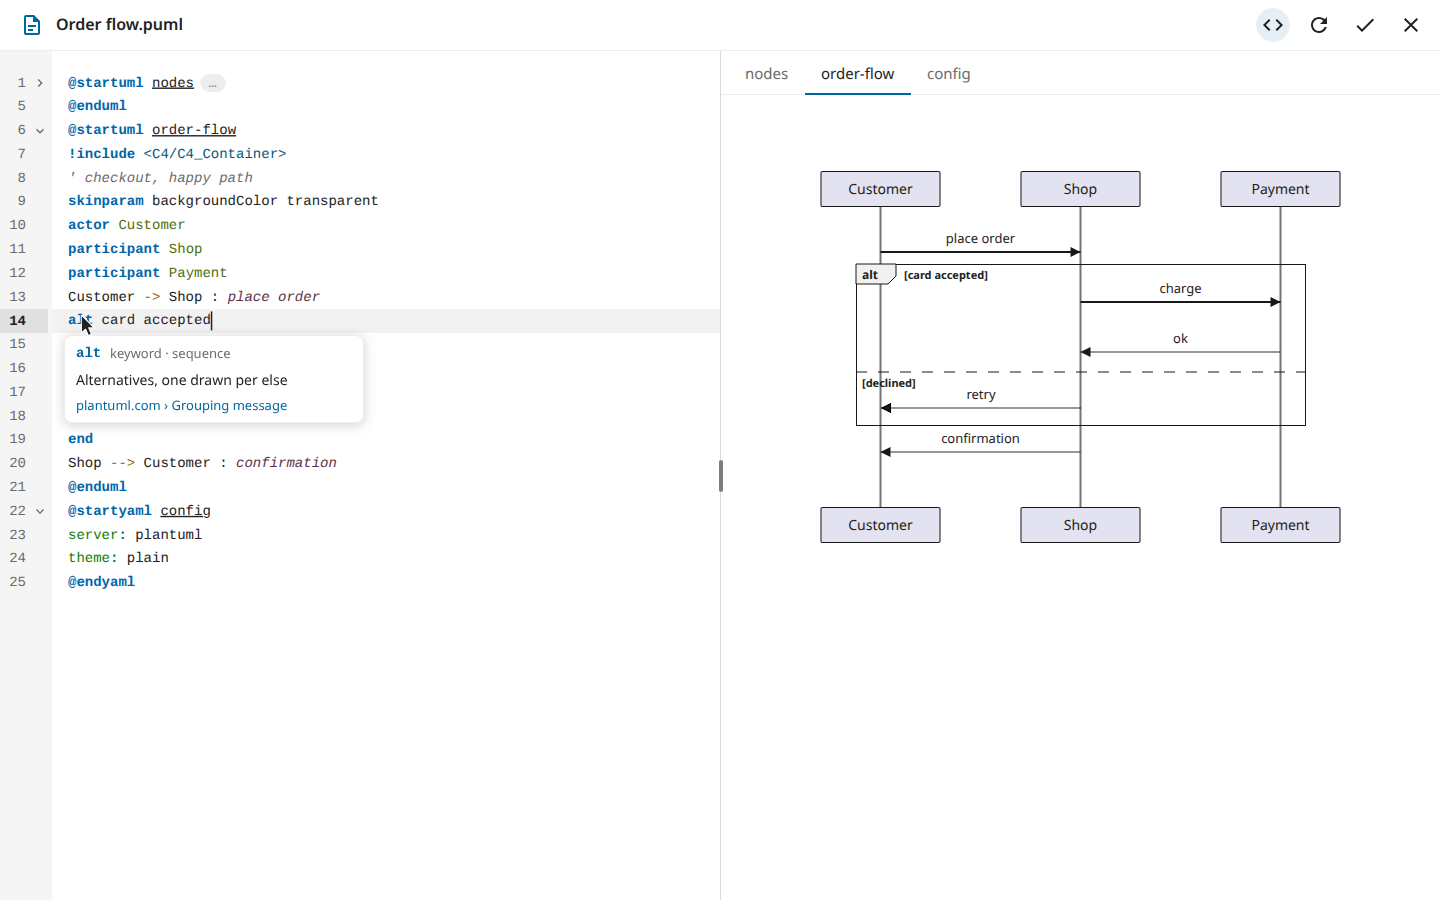
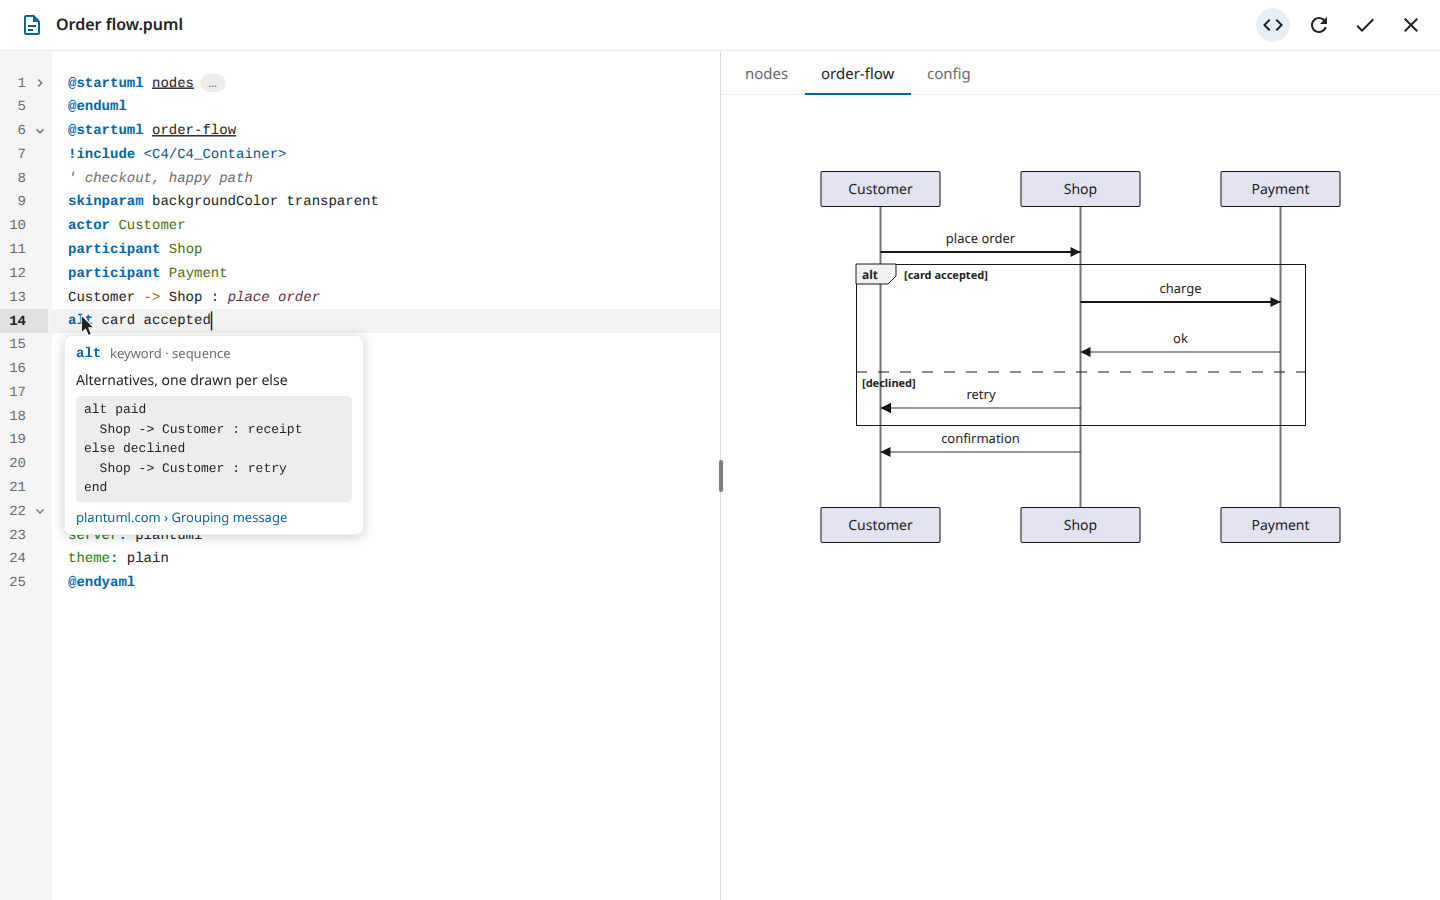
Design: pinning in place, examples, signatures, a diagram type's card

Changed region(s): [[0.0312, 0.4356, 0.2188, 0.5911]]

diff --git a/docs/design/README.md b/docs/design/README.md
@@ -20,7 +20,8 @@ board. The spec's "The design" section says what each board shows and what the p
 | Editor | a tag's parts coloured, the pencil after `valign=top` and the attributes after `<font ` | [editor-tag-attributes.png](editor-tag-attributes.png) |
 | Editor | `!include <c4/`, the standard library's C4 folders and files | [editor-stdlib.png](editor-stdlib.png) |
 | Editor | the pointer on `alt`, its doc card below the word | [editor-hover-docs.png](editor-hover-docs.png) |
-| Editor | the `!include` card pinned: outline and × | [editor-hover-pinned.png](editor-hover-pinned.png) |
+| Editor | the `alt` card pinned in place: outline and × | [editor-hover-pinned.png](editor-hover-pinned.png) |
+| Editor | the pointer on `@startyaml`, the diagram type's card | [editor-hover-diagram.png](editor-hover-diagram.png) |
 | Editor | a lint mark and a doc card in one hover box, the message on top | [editor-hover-lint.png](editor-hover-lint.png) |
 | Editor | `%str` completions, `%strlen`'s card beside the list | [editor-completion-docs.png](editor-completion-docs.png) |
 | Editor | the hover docs on the dark theme | [editor-hover-docs-dark.png](editor-hover-docs-dark.png) |
